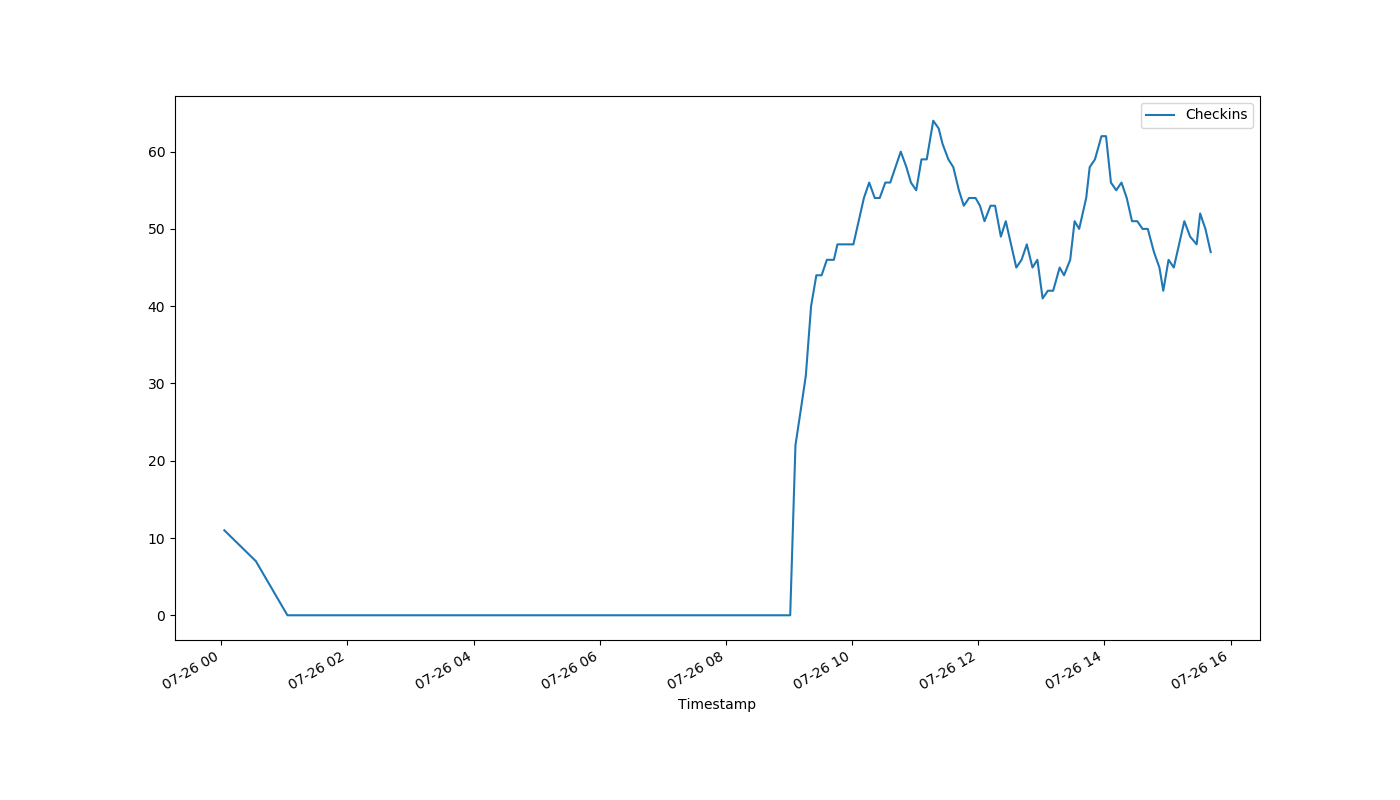
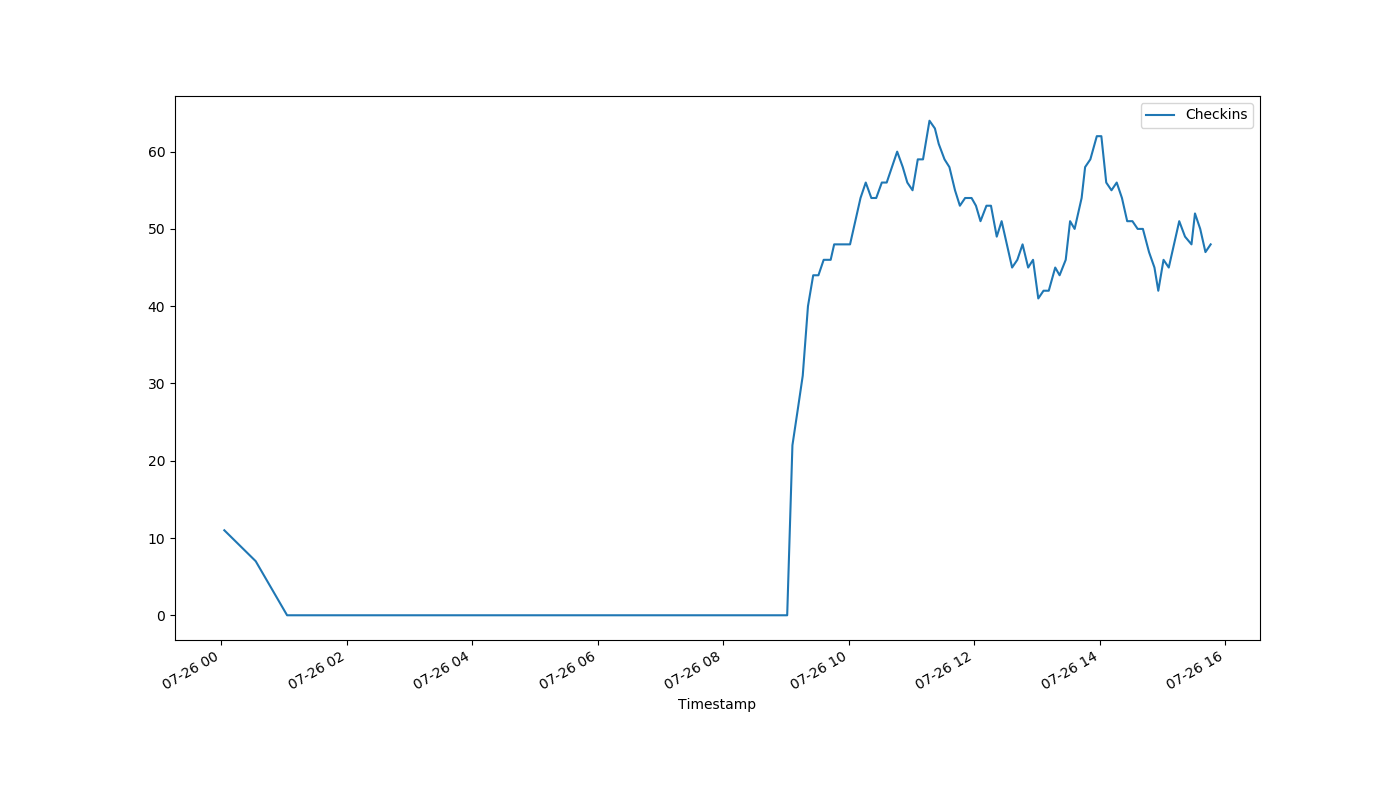
auto-Jul-26-15:47:54

diff --git a/index.html b/index.html
@@ -1,1 +1,1 @@
-<!DOCTYPE html><html><head><meta http-equiv="refresh" content="30"><link rel='stylesheet' href='holmcurrent.css'></head><body><p id='count'>47</p><div id='graph-wrap'><img id='graph' src='holmgraph-Jul-26.png'></div><p id='updated'>Last updated 15:41:09 / 15:41:07</p></body></html>
+<!DOCTYPE html><html><head><meta http-equiv="refresh" content="30"><link rel='stylesheet' href='holmcurrent.css'></head><body><p id='count'>48</p><div id='graph-wrap'><img id='graph' src='holmgraph-Jul-26.png'></div><p id='updated'>Last updated 15:46:09 / 15:46:08</p></body></html>
